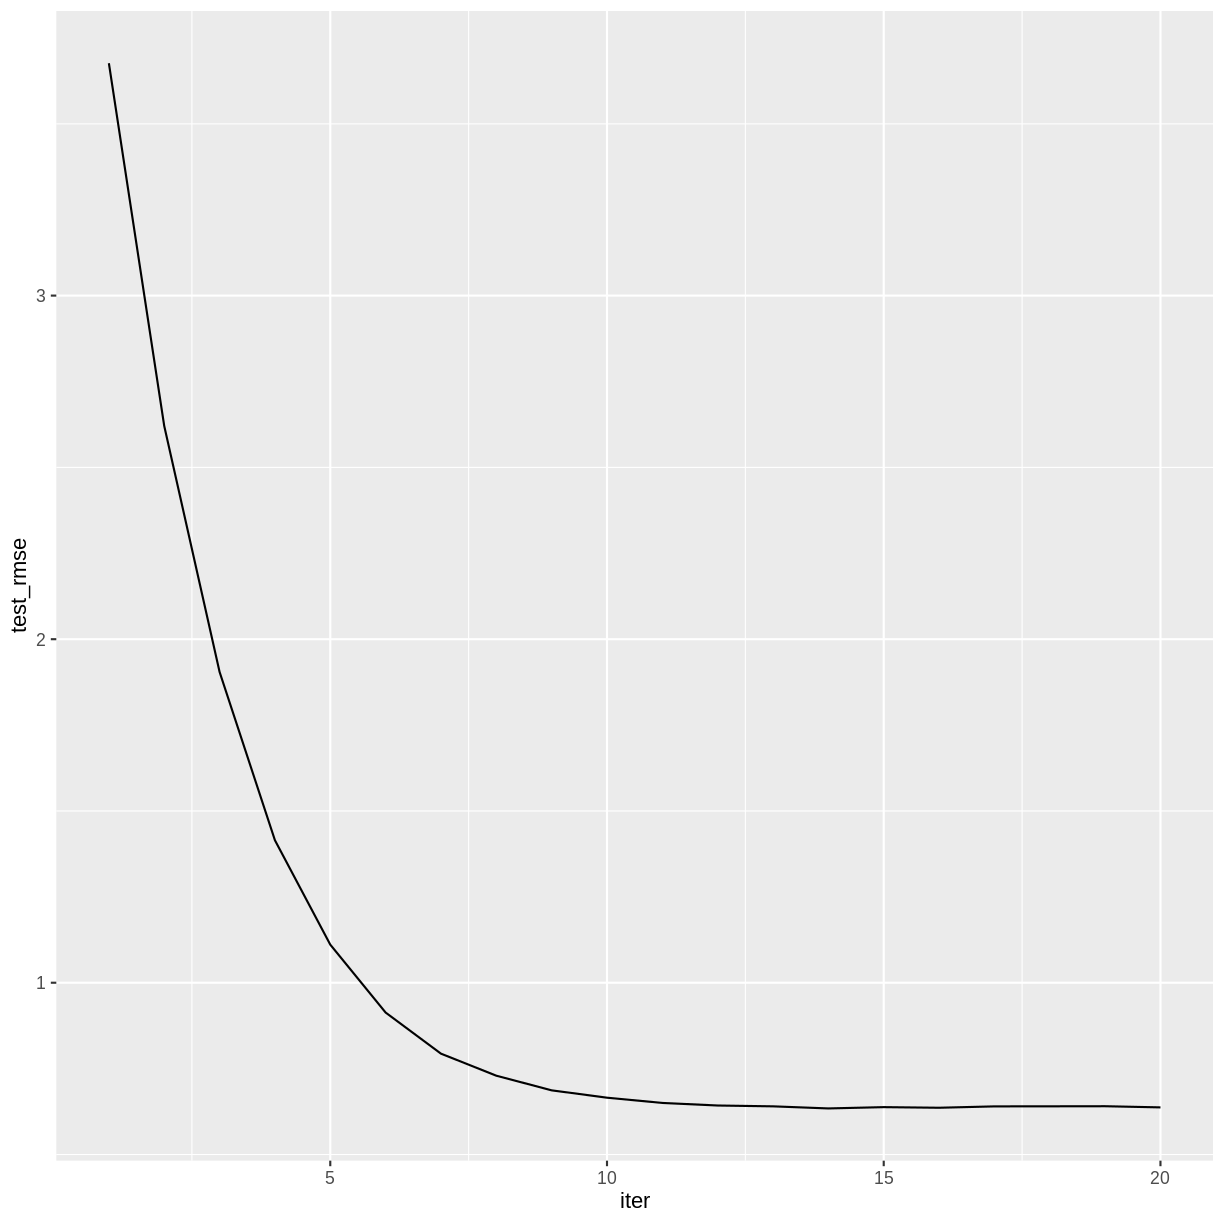
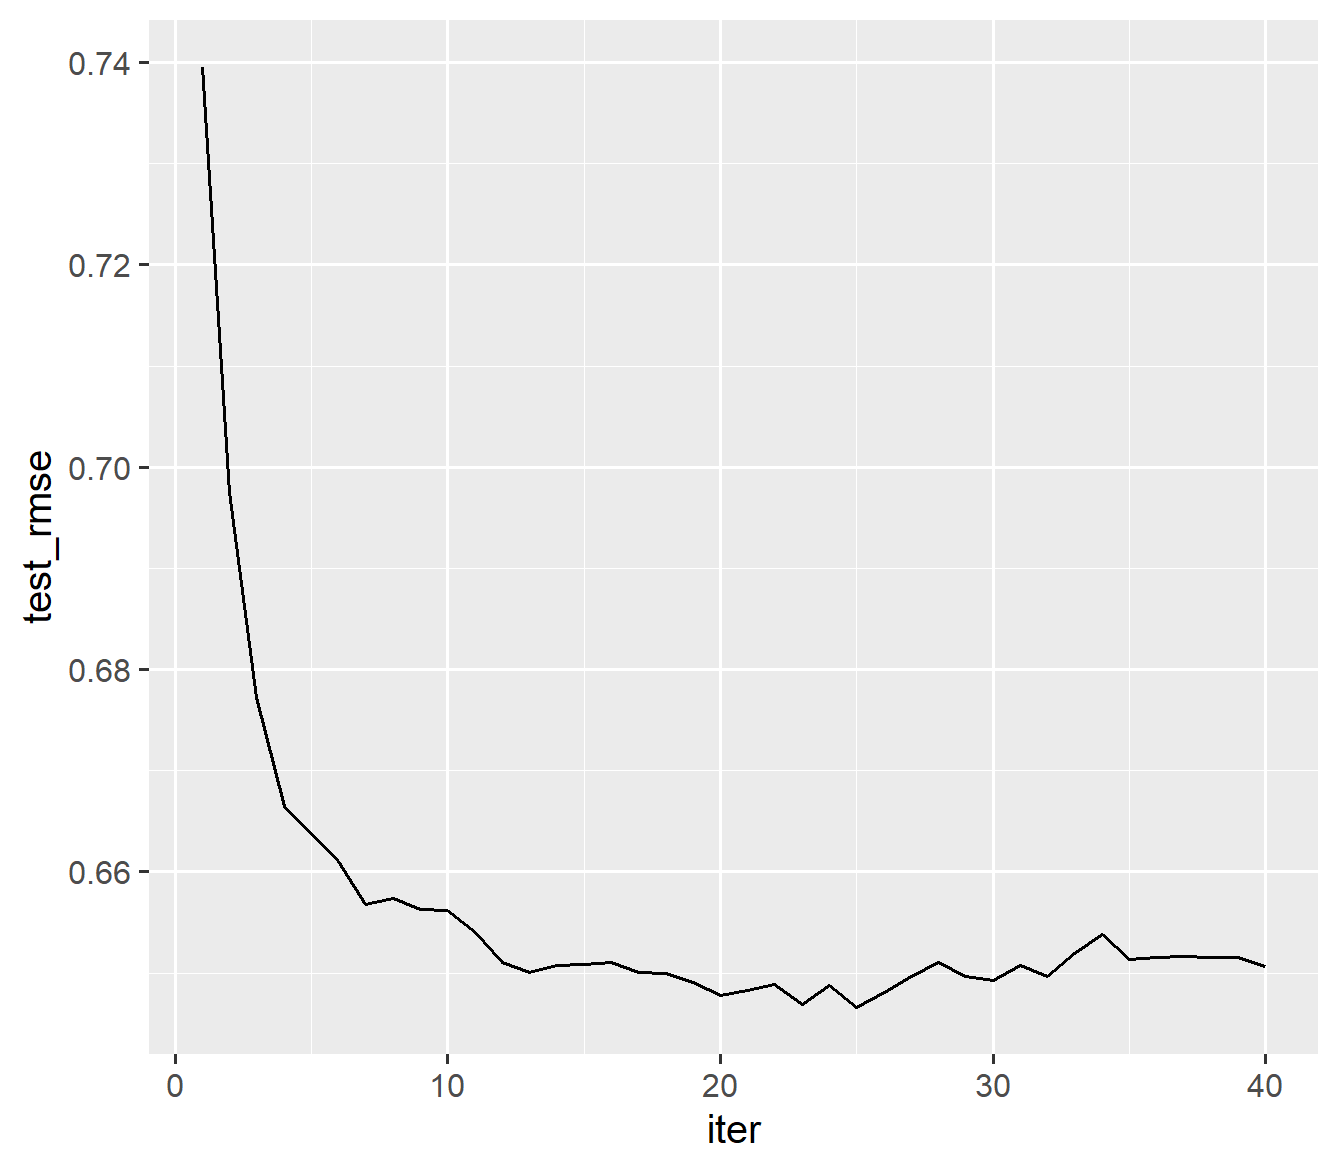
Correction to iterations challenge and other minor fixes

diff --git a/episodes/5-gradient-boosted-trees.md b/episodes/5-gradient-boosted-trees.md
@@ -24,7 +24,7 @@ exercises: 25
 
 A random forest is called an *ensemble* method, because it combines the results of a set of trees to form a single prediction. *Gradient boosted trees* are also ensemble methods, but instead of forming a forest of trees from different random samples, they grow successive trees that systematically reduce the error of the model at each iteration.
 
-We will be using the R package `xgboost`, which gives a fast, scalable implementation of a gradient boosting framework. For more information on how `xgboost` works, see the [XGBoost Presentation](https://cran.r-project.org/web/packages/xgboost/vignettes/xgboostPresentation.html) vignette and the [Introduction to Boosted Trees](https://xgboost.readthedocs.io/en/stable/tutorials/model.html) tutorial in the XGBoost documentation. In this episode we will use XGBoost to create a regression model, but this framework can also be used for classification problems.
+We will be using the R package `xgboost`, which gives a fast, scalable implementation of a gradient boosting framework. For more information on how `xgboost` works, see the [XGBoost Presentation](https://cran.r-project.org/web/packages/xgboost/vignettes/xgboost_introduction.html) vignette and the [Introduction to Boosted Trees](https://xgboost.readthedocs.io/en/stable/tutorials/model.html) tutorial in the XGBoost documentation. In this episode we will use XGBoost to create a regression model, but this framework can also be used for classification problems.
 
 ## Reload the Red Wine Data
 
@@ -115,12 +115,12 @@ Does the accuracy of the model improve with more iterations? Is there a point
 after which the model ceases to improve?
 
 :::::::::::::::::::::::: solution
-The accuracy of the model doesn't appear to improve after iteration 14.
+The accuracy of the model doesn't appear to improve after iteration 25.
 
 ```r
 redwineXGB <- xgb.train(data = dtrain, 
-                        watchlist = list(test = dtest), 
-                        nrounds = 20)
+                        evals = list(test = dtest), 
+                        nrounds = 40)
 ```
 
 ```output
@@ -144,6 +144,26 @@ redwineXGB <- xgb.train(data = dtrain,
 [18]	test-rmse:0.649995 
 [19]	test-rmse:0.649126 
 [20]	test-rmse:0.647756 
+[21]	test-rmse:0.648309 
+[22]	test-rmse:0.648837 
+[23]	test-rmse:0.646943 
+[24]	test-rmse:0.648741 
+[25]	test-rmse:0.646583 
+[26]	test-rmse:0.648100 
+[27]	test-rmse:0.649653 
+[28]	test-rmse:0.651069 
+[29]	test-rmse:0.649710 
+[30]	test-rmse:0.649308 
+[31]	test-rmse:0.650731 
+[32]	test-rmse:0.649718 
+[33]	test-rmse:0.651962 
+[34]	test-rmse:0.653782 
+[35]	test-rmse:0.651400 
+[36]	test-rmse:0.651547 
+[37]	test-rmse:0.651667 
+[38]	test-rmse:0.651585 
+[39]	test-rmse:0.651566 
+[40]	test-rmse:0.650699 
 ```
 
 ```r
@@ -160,7 +180,7 @@ attr(redwineXGB, "evaluation_log") |>
 
 ## Learning Rate
 
-Machine learning algorithms that reduce a loss function over a sequence of iterations typically have a setting that controls the *learning rate*. A smaller learning rate will generally reduce the error by a smaller amount at each iteration, and therefore will require more iterations to arrive at a given level of accuracy. The advantage to a smaller learning rate is that the algorithm is less likely to overshoot the optimum fit.
+Machine learning algorithms that reduce a loss function over a sequence of iterations typically have a setting that controls the *learning rate*. A smaller learning rate will generally reduce the error by a smaller amount at each iteration, and therefore will require more iterations to arrive at a given level of accuracy. The advantage to a smaller learning rate is that the algorithm is less likely to overshoot the optimum fit; the disadvantage is the algorithm may not reach the optimum fit. 
 
 In XGBoost, the setting that controls the learning rate is called `eta`, which is one of several *hyperparameters* that can be adjusted. Its default value is 0.3, but smaller values will usually perform better. It must take a value in the range 0 < `eta` < 1.
 

diff --git a/episodes/4-random-forests.md b/episodes/4-random-forests.md
@@ -86,8 +86,8 @@ the testing set accuracy.
 ```r
 library(rpart)
 library(rpart.plot)
-rwtree <- rpart(grade ~ ., data = trainDF)
-rpart.plot(rwtree)
+rwTree <- rpart(grade ~ ., data = trainDF)
+rpart.plot(rwTree)
 ```
 
 ![](fig/4-rwtree.png){alt="decision tree of red wine grade"}
@@ -580,7 +580,7 @@ Multiple R-squared:  0.3762,	Adjusted R-squared:  0.3708
 F-statistic: 69.46 on 11 and 1267 DF,  p-value: < 2.2e-16
 ```
 
-The variables the smallest p-values (`Pr(>|t|)`) tend to correspond to
+The variables with the smallest p-values (`Pr(>|t|)`) tend to correspond to
 the most important variables in the random forest model.
 
 :::::::::::::::::::::::::::::::::

diff --git a/episodes/2-linear-and-logistic-regression.md b/episodes/2-linear-and-logistic-regression.md
@@ -96,7 +96,7 @@ Multiple R-squared:  0.1507,	Adjusted R-squared:  0.1364
 F-statistic: 10.47 on 1 and 59 DF,  p-value: 0.001988
 ```
 
-The predicted `Start` is obtained by multiplying `Number` by the regression slope `r round(model1$coefficients[2], 4)` and adding the intercept `r round(model1$coefficients[1], 4)`.
+The predicted `Start` is obtained by multiplying `Number` by the regression slope -1.2041 and adding the intercept 16.4268.
 
 ::::::::::::::::::::::::::::::::::::: challenge 
 

diff --git a/instructors/instructor-notes.md b/instructors/instructor-notes.md
@@ -64,7 +64,7 @@ Advise learners to start with small grids when doing the final challenge, so tha
 - [CRAN Machine Learning Task View](https://cran.r-project.org/view=MachineLearning)
 - [Multiple Logistic Regression](https://rcompanion.org/rcompanion/e_07.html), from the *R Companion*.
 [Manual on Setting Up, Using, and Understanding Random Forests](https://www.stat.berkeley.edu/~breiman/Using_random_forests_V3.1.pdf), Leo Breiman.
--  [XGBoost Presentation vignette](https://cran.r-project.org/web/packages/xgboost/vignettes/xgboostPresentation.html) 
+-  [XGBoost Presentation vignette](https://cran.r-project.org/web/packages/xgboost/vignettes/xgboost_introduction.html) 
 - [Introduction to Boosted Trees](https://xgboost.readthedocs.io/en/stable/tutorials/model.html), XGBoost documentation.
 - [Notes on XGBooost Parameter Tuning](https://xgboost.readthedocs.io/en/stable/tutorials/param_tuning.html)
 - [Documentation for XGBoost Parameters](https://xgboost.readthedocs.io/en/stable/parameter.html)